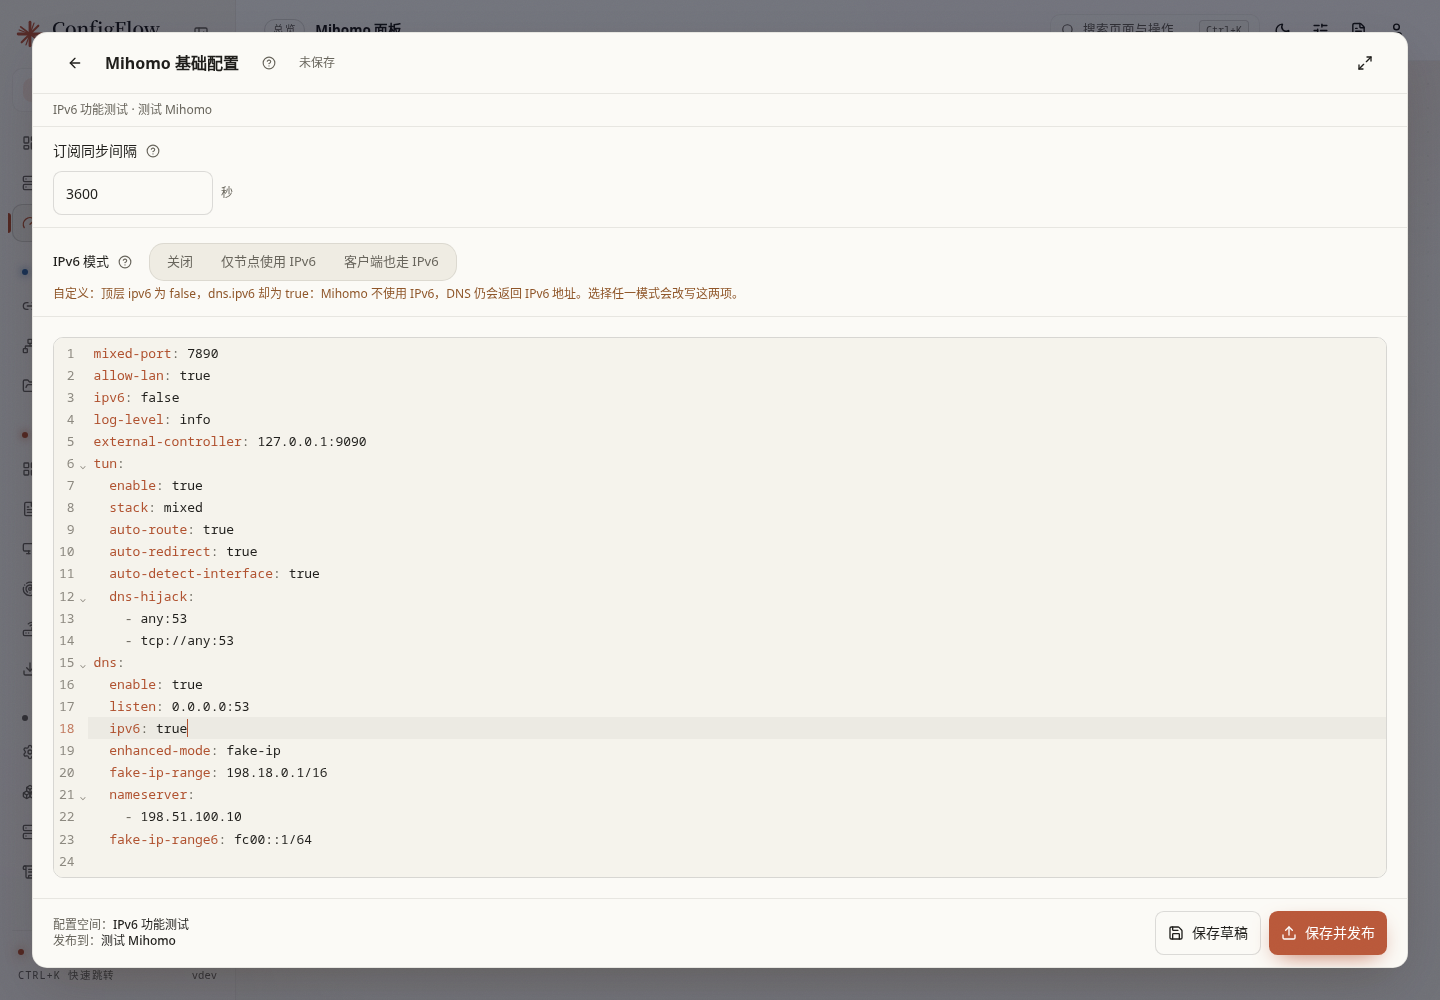
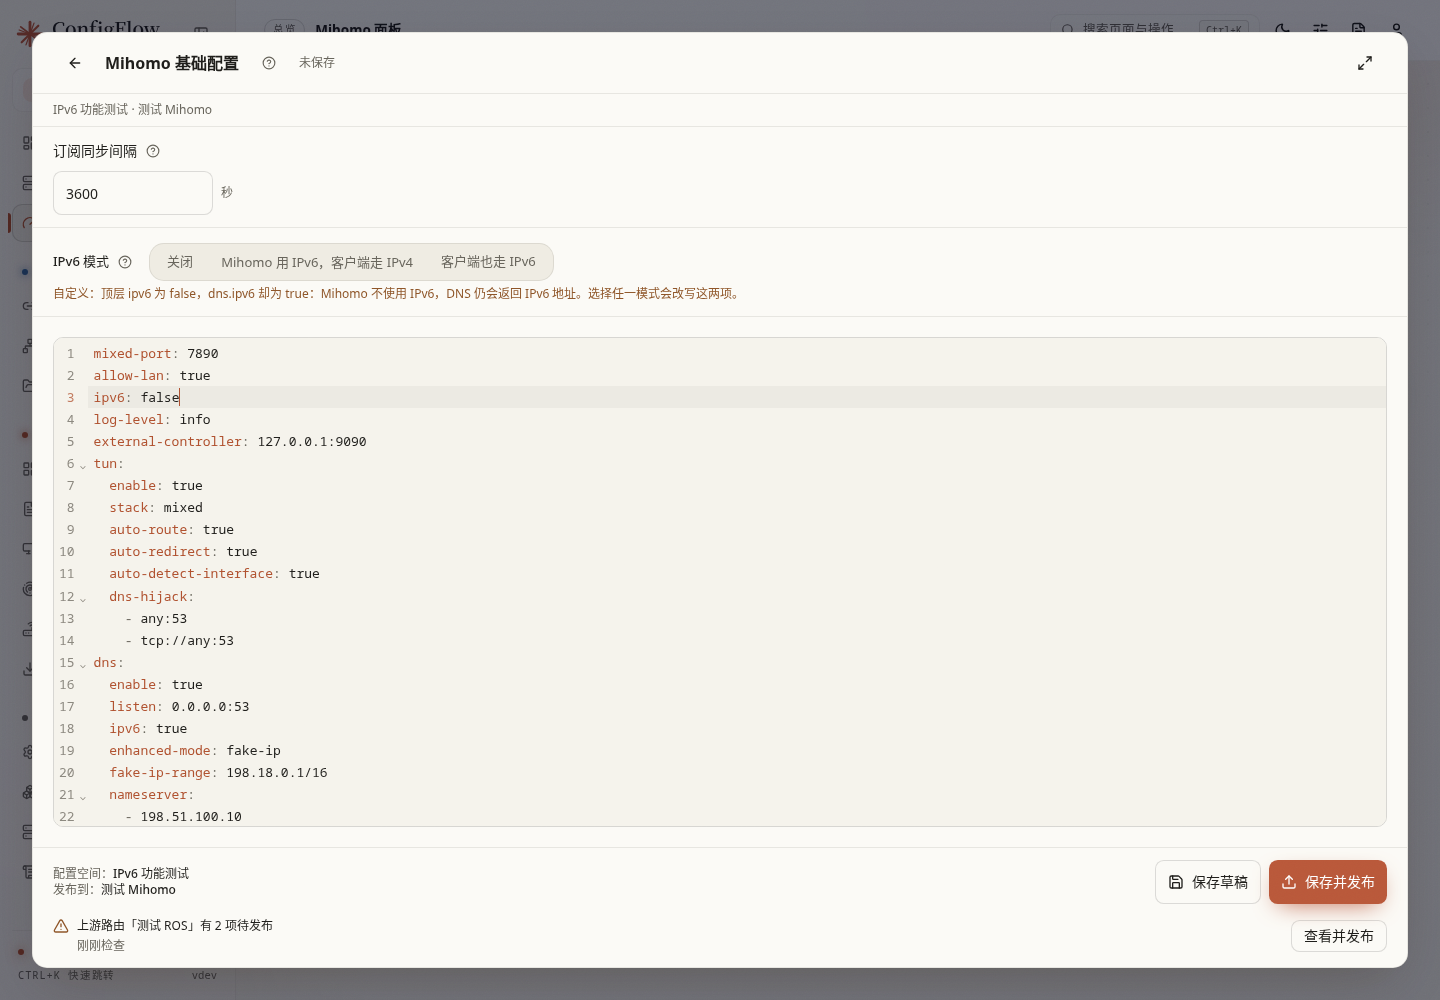
test: browser lab for both-mode Fake-IP routes and reused checks; retake screenshots
scripts/tests/ipv6_mode_browser.mjs drives the real app on the test server
against VM151 and CT152 through a private copy of the IPv6 preview data:
「Mihomo 用 IPv6，客户端走 IPv4」 fills fc00::1/64 and is named in full; with
dns.ipv6 off the report shows the IPv6 Fake-IP route 待添加 and the device
check does not fault it; 「客户端也走 IPv6」 has the same router work;
reopening the settings reuses both results without a device or router
read, 重新检查 reads again; the long option wraps on a phone.

upstream_router_pending_lab.read_only() now refuses every RouterOS write
and Agent operation in the lab process, keeps the Agent background jobs
off, and counts the reads for the browser checks; both labs ran with zero
write attempts.

Screenshots retaken for the renamed mode and 上游路由 wording: the mode
and step list (desktop, phone), custom, the device check window, the saved
draft, and the reminder in the publish bar (desktop, phone). New: the
report's IPv6 Fake-IP route waiting to be added while DNS IPv6 is off.

diff --git a/scripts/tests/upstream_router_pending_lab.py b/scripts/tests/upstream_router_pending_lab.py
@@ -3,7 +3,8 @@
 
 The upstream router reminder reads the real VM151 RouterOS and the CT152 Agent
 through the same report and release preview as the 上游路由 page. Nothing is
-written to either: the browser script never confirms a release, and the copy's
+written to either: the browser scripts never confirm a release, read_only()
+refuses any RouterOS write or Agent operation in this process, and the copy's
 own changes (a Mihomo draft, an unreachable extra router) stay in WORK.
 
 CT152 sends its heartbeats to the preview service, not to this copy, so the
@@ -55,6 +56,7 @@ def prepare():
     # Automatic jobs would act on the real router from this copy: keep them off.
     import backend.agents.rule_sync as agent_rule_sync
     agent_rule_sync.start_loop = lambda: None
+    read_only()
     from backend.common.agent_manager import get_agent_manager
     manager = get_agent_manager()
     mihomo = [agent for agent in manager.get_all_agents()
@@ -62,6 +64,59 @@ def prepare():
     if len(mihomo) != 1:
         raise RuntimeError('Expected exactly one lab Mihomo in the preview data')
     return manager, mihomo[0]['id']
+
+
+COUNTS = {'agent_status': 0, 'agent_writes': 0, 'routeros_reads': 0, 'routeros_writes': 0}
+
+
+def read_only():
+    """VM151 and CT152 are shared and read-only here: refuse every write and count the reads.
+
+    Background jobs that could push to an Agent stay off; a RouterOS request
+    other than GET, and an Agent operation other than the read-only status,
+    fail before leaving this process. WORK/counters.json lets a browser check
+    tell a reused result from a new read.
+    """
+    import backend.agents.dns_follow as dns_follow
+    import backend.agents.ipv6_readiness as readiness
+    import backend.agents.ipv6_verification as verification
+    import backend.agents.oxidns_ha_publish as ha_publish
+    from backend.agents.oxidns_monitor import MonitorError
+    from backend.routers.base import RouterError
+    from backend.routers.routeros import RouterOSDriver
+    for module in (dns_follow, ha_publish, verification):
+        module.start_loop = lambda *_args, **_kwargs: None
+
+    def save():
+        (WORK / 'counters.json').write_text(json.dumps(COUNTS))
+
+    original_request = RouterOSDriver._request
+
+    def router_request(self, method, path, values=None, **kwargs):
+        if method != 'GET':
+            COUNTS['routeros_writes'] += 1
+            save()
+            raise RouterError(f'实验网只读：已拒绝 RouterOS {method} {path}')
+        COUNTS['routeros_reads'] += 1
+        save()
+        return original_request(self, method, path, values, **kwargs)
+    RouterOSDriver._request = router_request
+    original_agent = readiness._request
+
+    def agent_request(agent, operation='', payload=None):
+        if operation:
+            COUNTS['agent_writes'] += 1
+            save()
+            raise MonitorError('LAB_READ_ONLY', 409, f'实验网只读：已拒绝 Agent 操作 {operation}')
+        COUNTS['agent_status'] += 1
+        save()
+        return original_agent(agent, operation, payload)
+    readiness._request = agent_request
+
+    def no_verification(*_args, **_kwargs):
+        raise MonitorError('LAB_READ_ONLY', 409, '实验网只读：不运行验收')
+    verification.start = no_verification
+    save()
 
 
 def synced_fixture():

diff --git a/doc/testing/ipv6-readiness-pve.md b/doc/testing/ipv6-readiness-pve.md
@@ -286,3 +286,15 @@ rt -- /home/sunbroke/cf-test/.venv/bin/python scripts/tests/ipv6_managed_routes_
 - 同样的 15 个连接全部卡住：12 个约 6.6 秒，3 个约 13.4 秒。
 - 经 `/rest/execute` 原样执行这条命令，RouterOS 接受，新规则正好位于 `*12` 之前；重新生成报告后提示消失，15 个连接恢复到 1–8 毫秒。
 - 结束后删除全部标记规则、接收命令新增的规则、接口列表及成员，停止 CT152 上的测试服务并撤掉测试地址；`/ip firewall`（filter、nat、mangle、raw、address-list）、接口列表与成员、静态路由、`/ip settings` 及 CT152/CT153 上相关状态与开始前逐项一致。fasttrack 留下的动态 dummy 规则 `*C` 在开始前已存在，未变化。
+
+## IPv6 Fake-IP 默认发布与检查复用（2026-10-31）
+
+`scripts/tests/ipv6_mode_browser.mjs` 在测试服务器上用 headless Chromium 运行，后端是本分支代码加 IPv6 预览数据的私有副本（`upstream_router_pending_lab.py`）。实验进程内拒绝一切 RouterOS 非 GET 请求和 Agent 写操作，并计数读取；全程 VM151、CT152 只读，没有点保存并发布、确认发布、补齐或验证。
+
+- 副本草稿先设为 `ipv6: false`、无 `fake-ip-range6`。选「Mihomo 用 IPv6，客户端走 IPv4」后 YAML 写入 `ipv6: true`、`dns.ipv6: false` 并补齐 `fake-ip-range6: fc00::1/64`，网段输入框显示，说明以完整名称「Mihomo 用 IPv6，客户端走 IPv4 分流」开头。
+- 网段改为 VM151 上没有的 `fc00:0:0:2::1/64` 并保存草稿：步骤清单为主机准备、保存并发布、上游路由发布、路由器防火墙 / NAT、验收；上游路由「2 项待处理」，其中「IPv6 Fake-IP 分流路由：待添加」，差异报告的卡片同样为「待添加」，下一跳 `fe80::cf:15ff:fe00:52%ether2`。DNS IPv6 关闭时设备检查的 `fake_ipv6` 为提醒而不是错误，并注明客户端暂不使用此网段。
+- 切到「客户端也走 IPv6」再保存，上游路由仍是同样的 2 项，说明两个模式发布同一条路由。
+- 新开页面再次打开设置：设备检查与上游路由的回答都是 `cached: true`，CT152 状态读取次数和 VM151 读取次数都不变；点「重新检查」后两者都重新读取。设备检查窗口直接显示上次结果并注明检查时间。
+- 手机深色 390 px：中间选项折成两行，高 44 px，页面无横向滚动，触控目标不小于 44 px。
+- 结束时 RouterOS 写入与 Agent 写操作计数均为 0。`upstream_router_pending_browser.mjs` 用同一只读保护重跑通过，并重拍了改名后的待发布提醒截图。
+

diff --git a/doc/manual/routers.md b/doc/manual/routers.md
@@ -61,6 +61,8 @@ ROS 会给设备发 ICMP 重定向，让设备改为直接连 Mihomo，但每个
 - 「IPv6 模式」改为「关闭」、DNS 不再使用 Fake-IP 或删除网段后，保存并经差异报告**预览发布**，才撤回 ConfigFlow 添加的路由。
 - 自动规则同步不发布这项改动：首次出现、网段或下一跳变化时暂停同步，需要手动预览发布一次。
 
+![「Mihomo 用 IPv6，客户端走 IPv4」（DNS IPv6 关闭）时，差异报告中的 IPv6 Fake-IP 分流路由待添加](../img/guide/mihomo-ipv6-nodes-fakeip-pending.png)
+
 ### IPv6 规则集路由（RouterOS）
 
 Telegram 等规则集里除了 IPv4 网段，还有 `IP-CIDR6` 网段。设备有 IPv6 后会直接用这些 IPv6 地址连接，如果主路由只把 IPv4 网段交给 Mihomo，这些连接会从 WAN 直连并超时。
